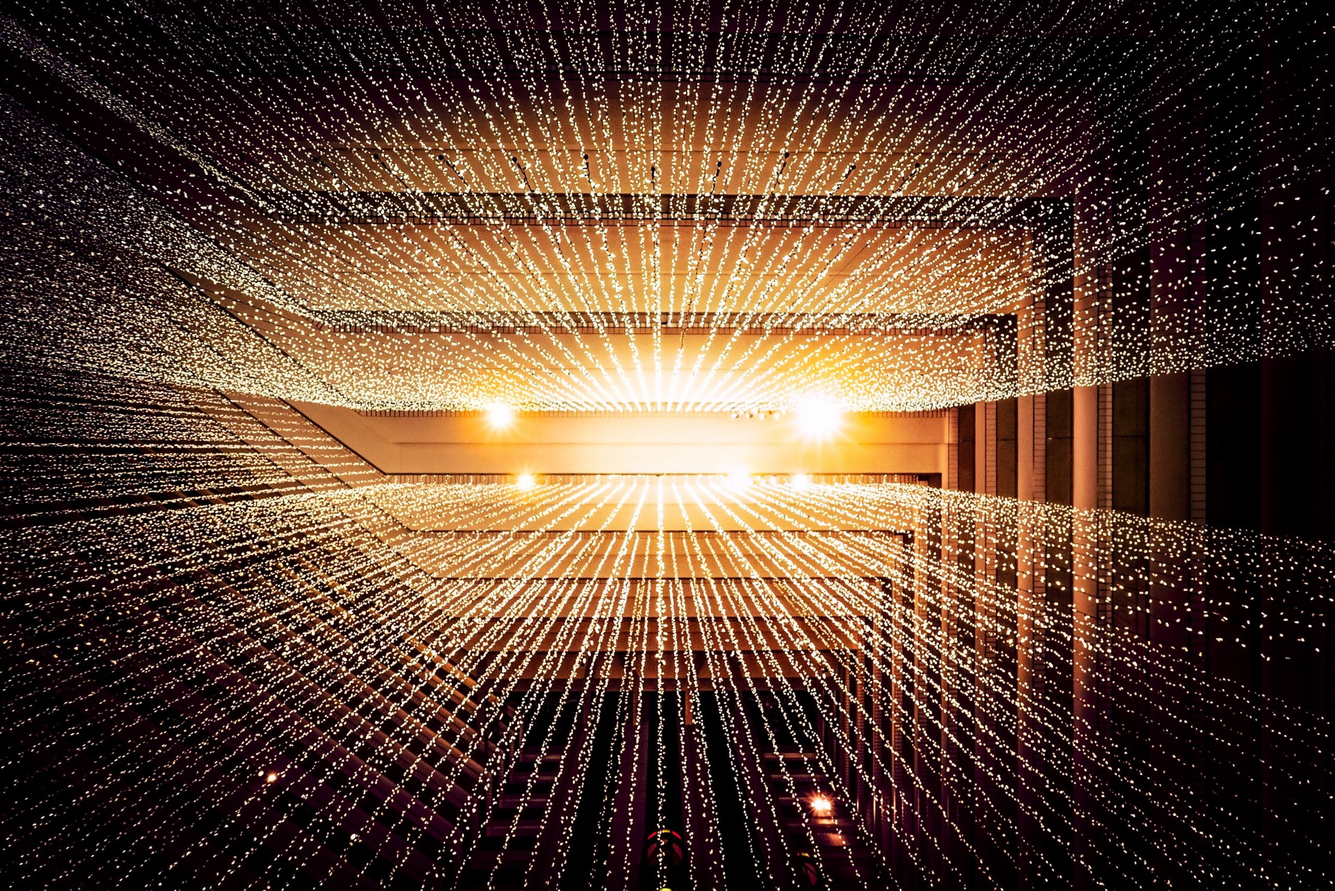
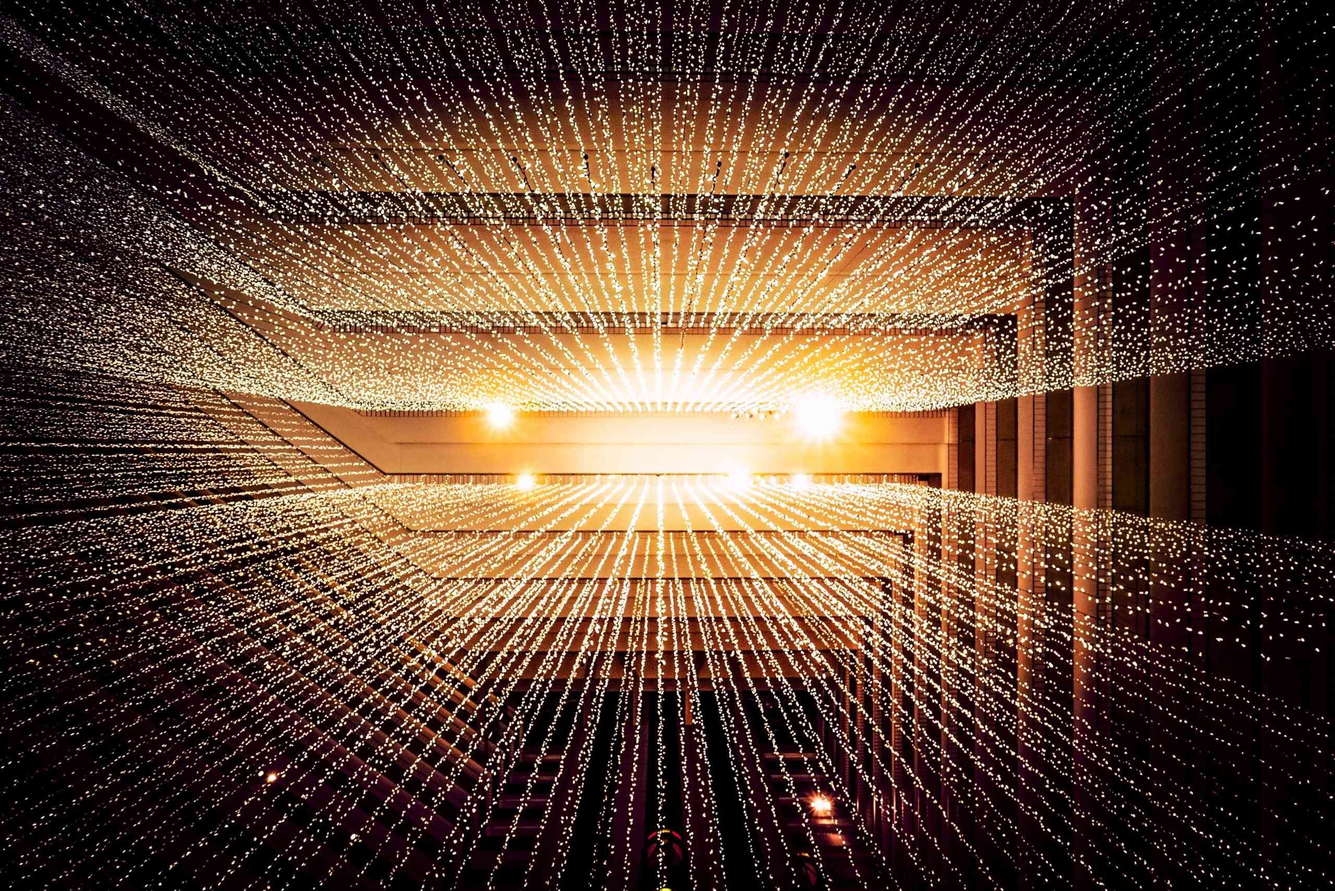
optimise cover image

Changed region(s): [[0.0625, 0.093, 0.8438, 0.8063]]

diff --git a/posts/2017/2017-05-31-gets-better-with-git/index.md b/posts/2017/2017-05-31-gets-better-with-git/index.md
@@ -4,7 +4,7 @@ date: 2017-05-31
 title: Just starting out with Git and GitHub? It gets easier, honest!
 tags: ['information', 'guide']
 published: true
-cover: ./cover.png
+cover: ./cover.jpg
 ---
 
 No doubt you have heard of Git or GitHub for source control, but

diff --git a/posts/2017/2017-06-01-moving-from-beginner-to-advanced-git-with-aliases/index.md b/posts/2017/2017-06-01-moving-from-beginner-to-advanced-git-with-aliases/index.md
@@ -5,7 +5,7 @@ title:
   Moving from beginner to (slightly more) advanced git with aliases.
 tags: ['information', 'guide']
 published: true
-cover: ./cover.png
+cover: ./cover.jpg
 ---
 
 Speed up your git workflow with git aliases, this is a brief

diff --git a/posts/2017/2017-03-15-code-life-balance/index.md b/posts/2017/2017-03-15-code-life-balance/index.md
@@ -4,7 +4,7 @@ date: 2017-03-15
 title: Code life balance
 tags: ['career', 'ramble']
 published: true
-cover: ./cover.png
+cover: ./cover.jpg
 ---
 
 Just some rationalisation of what I'm currently doing.
